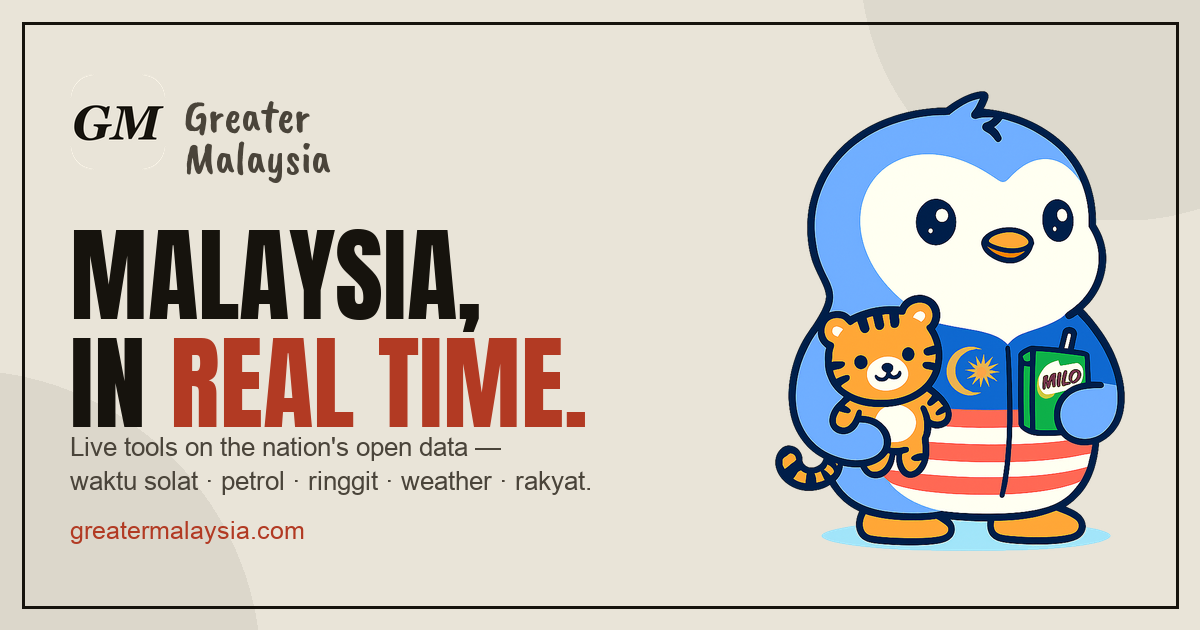
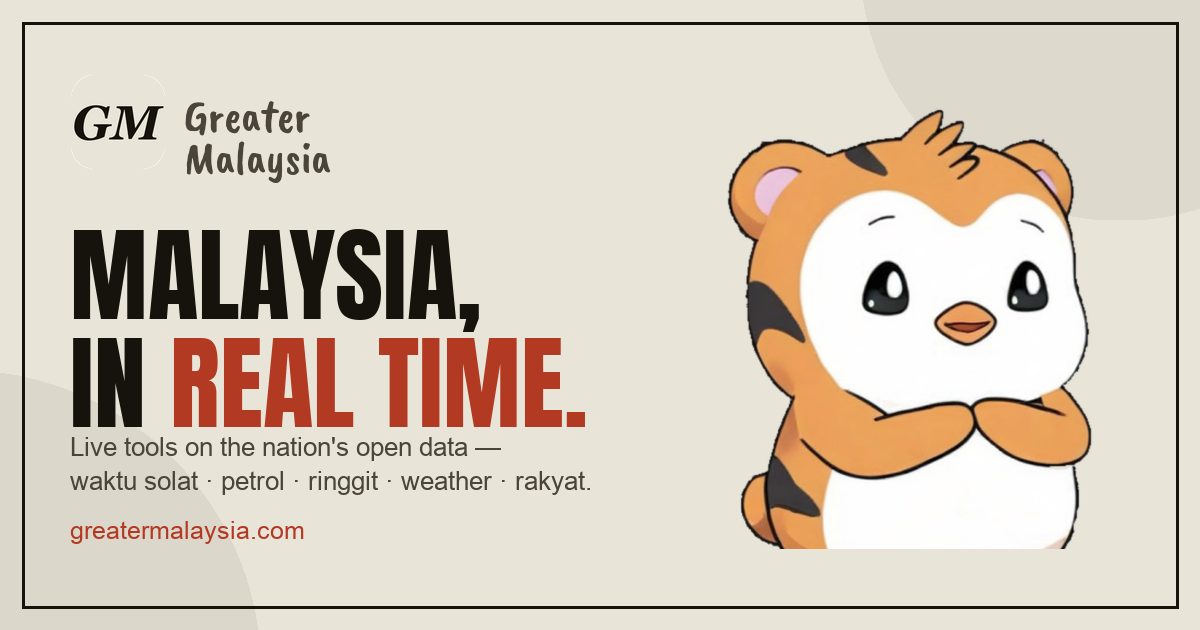
Replace mascot with tiger-penguin; remove Instagram link
- New transparent mascot (assets/mascot.png) in the hero, penguin removed
- Hero mascot is no longer a link; dropped the @mypudgyfriends badge + GA social event
- Removed MyPudgyFriends from structured-data sameAs
- Rebuilt OG share card with the new mascot (GM badge stays)

Staging only.

Changed region(s): [[0.5858, 0.1508, 0.9558, 0.8746]]

diff --git a/index.html b/index.html
@@ -54,7 +54,6 @@
           "logo": "https://greatermalaysia.com/assets/favicon-192.png",
           "description": "Free live tools and verified data on Malaysia ~ built on official open data.",
           "sameAs": [
-            "https://www.instagram.com/mypudgyfriends",
             "https://github.com/asianpengu/greater-malaysia"
           ]
         },
@@ -121,14 +120,12 @@
             </div>
           </div>
 
-          <a class="hero-pengu" href="https://www.instagram.com/mypudgyfriends" target="_blank" rel="noopener"
-             aria-label="Follow @mypudgyfriends on Instagram">
+          <div class="hero-pengu">
             <span class="pengu-float">
-              <img src="assets/penguin.png" width="687" height="896"
-                   alt="Greater Malaysia's mascot ~ a Pudgy penguin holding a tiger, wearing the Jalur Gemilang, with a Milo" />
+              <img src="assets/mascot.png" width="358" height="415"
+                   alt="Greater Malaysia's mascot — a tiger-penguin" />
             </span>
-            <span class="pengu-badge">@mypudgyfriends ↗</span>
-          </a>
+          </div>
         </div>
 
         <!-- LIVE TICKER -->

diff --git a/app.js b/app.js
@@ -97,7 +97,6 @@ function boot() {
   $("#wxCity").addEventListener("change", (e) => { loadWeather(+e.target.value); track("tool_use", { tool: "cuaca_udara", city: CITIES[+e.target.value]?.name }); });
 
   // engagement events
-  $(".hero-pengu")?.addEventListener("click", () => track("social_click", { network: "instagram", placement: "hero_mascot" }));
   $$('a[href="#tools"], a[href="stories/"]').forEach((a) =>
     a.addEventListener("click", () => track("nav_click", { to: a.getAttribute("href") }))
   );
